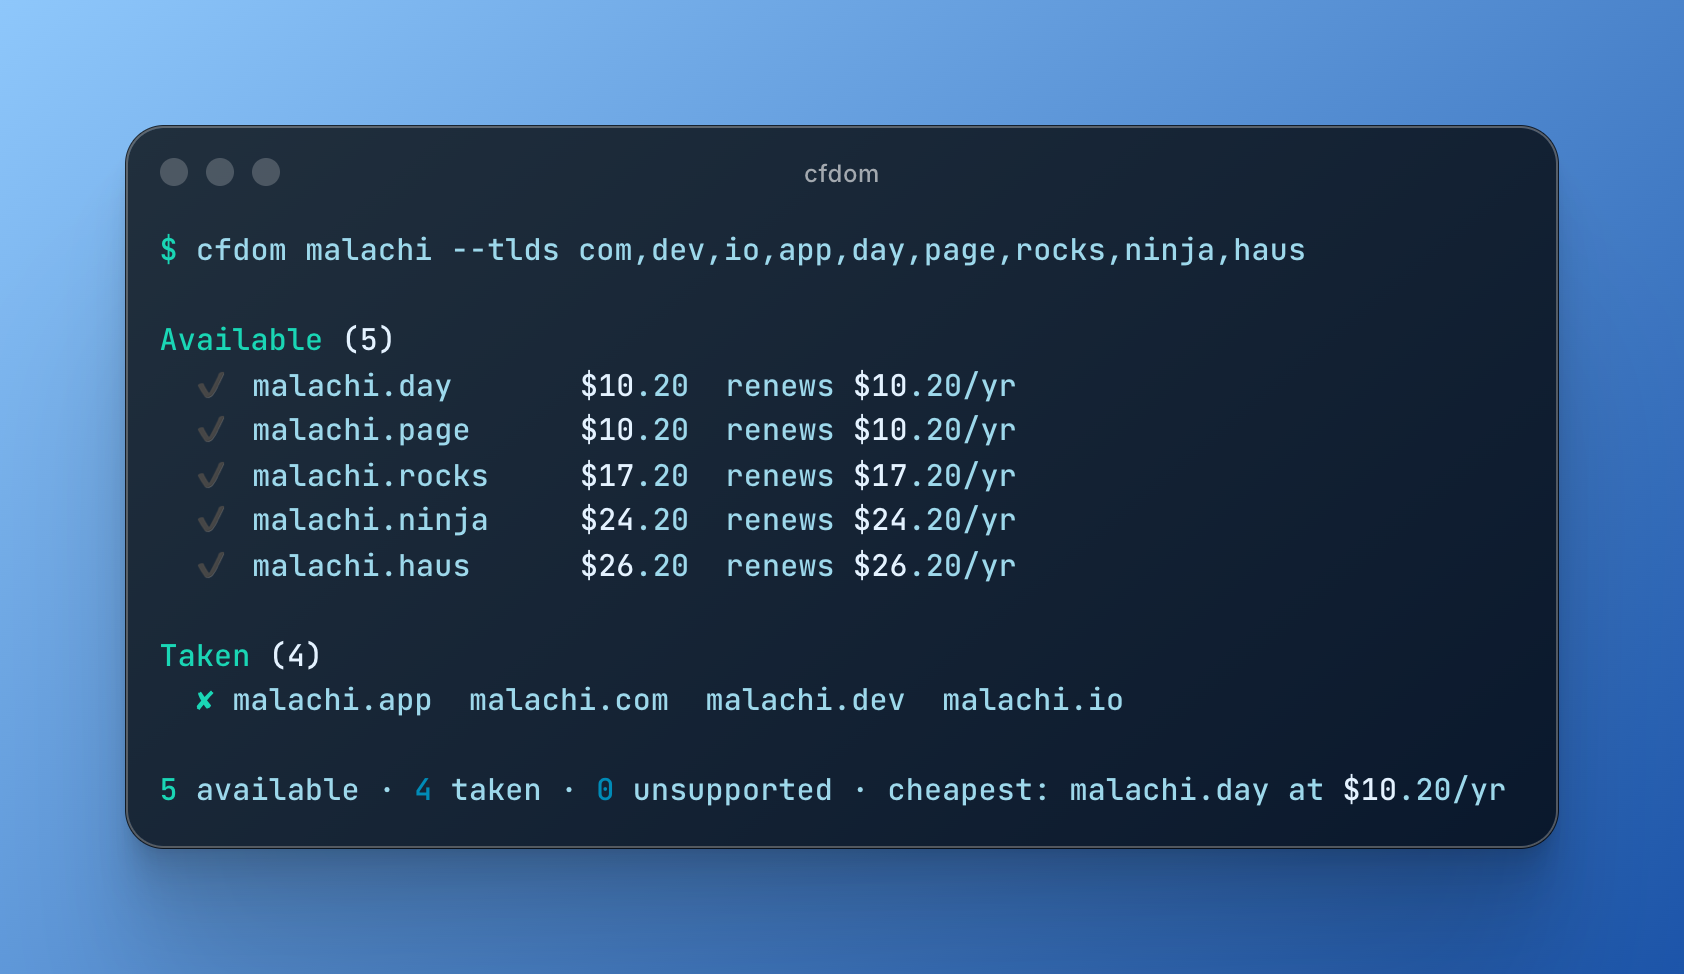
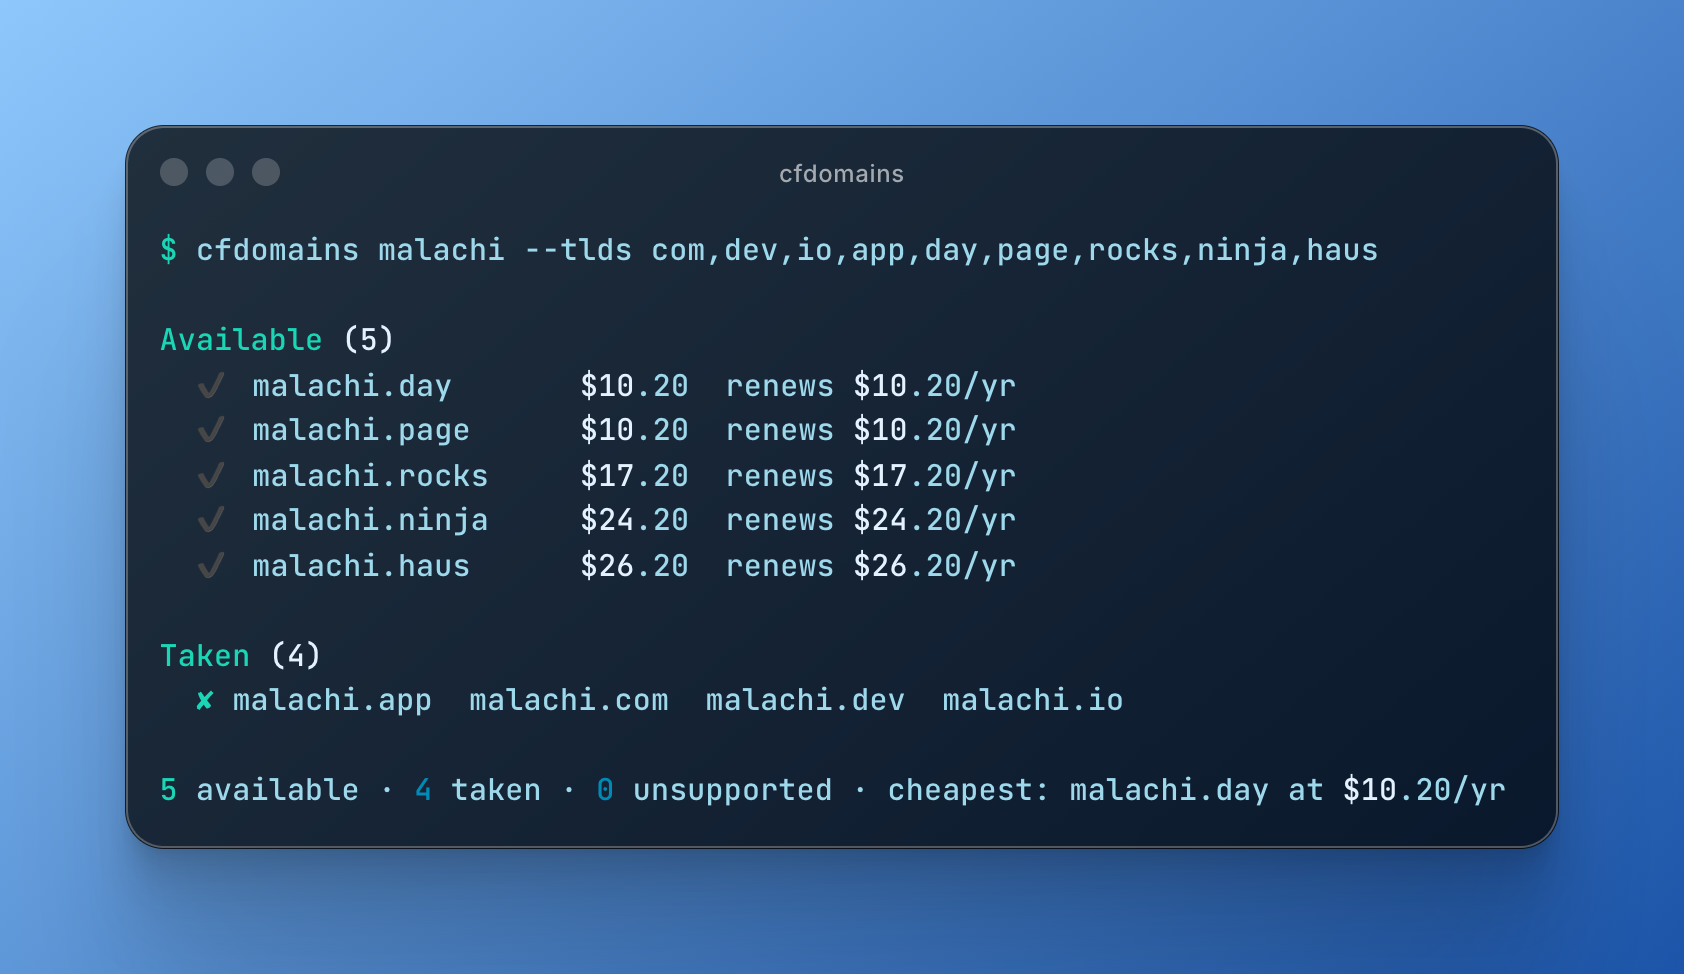
Rename CLI from cfdom to cfdomains
Clearer read ("Cloudflare domains", no DOM collision): bin name,
command name in help/examples, service ids, README, and screenshots.
The package name and cf-domain-search bin are unchanged.

Changed region(s): [[0.1544, 0.2464, 0.8337, 0.2772], [0.4632, 0.154, 0.5249, 0.1848]]

diff --git a/src/Cli.ts b/src/Cli.ts
@@ -1,5 +1,5 @@
 /**
- * The `cfdom` command: check a name's availability and price across every
+ * The `cfdomains` command: check a name's availability and price across every
  * Cloudflare Registrar TLD, plus the `setup` subcommand.
  */
 import { Array as Arr, Config, Console, Data, Effect, Option, Redacted, Result, Runtime, Schema } from "effect"
@@ -78,7 +78,7 @@ const onQuitAbort = () =>
 
 const setup = Command.make("setup", {}, () =>
   wizard.pipe(
-    Effect.flatMap(() => Console.log("\nAll set — try: cfdom yourname")),
+    Effect.flatMap(() => Console.log("\nAll set — try: cfdomains yourname")),
     Effect.catchTag("QuitError", onQuitAbort),
     withStyleFlag
   )).pipe(
@@ -89,7 +89,7 @@ const missingCredentials = new CliError.UserError({
   cause: "missing credentials",
   userMessage: "No Cloudflare credentials found.\n" +
     "Set CLOUDFLARE_API_TOKEN and CLOUDFLARE_ACCOUNT_ID (env or .env), " +
-    "or run `cfdom setup` in a terminal once."
+    "or run `cfdomains setup` in a terminal once."
 })
 
 const resolveCredentials = Effect.fn(function*(
@@ -201,7 +201,7 @@ const check = Effect.fn(function*(input: {
   }
 })
 
-export const cfdom = Command.make("cfdom", { name, ...flags }, (input) =>
+export const cfdomains = Command.make("cfdomains", { name, ...flags }, (input) =>
   check(input).pipe(Effect.catchTag("QuitError", onQuitAbort), withStyleFlag)).pipe(
     Command.withDescription(
       "Check a name's availability and price across every Cloudflare Registrar TLD"
@@ -209,10 +209,10 @@ export const cfdom = Command.make("cfdom", { name, ...flags }, (input) =>
     Command.withSubcommands([setup]),
     Command.withGlobalFlags([NoColor]),
     Command.withExamples([
-      { command: "cfdom myname", description: "Check myname.<tld> for every known TLD" },
-      { command: "cfdom myname --available", description: "Only show available domains" },
-      { command: "cfdom myname --tlds com,dev,io", description: "Restrict to specific TLDs" },
-      { command: "cfdom myname.dev", description: "Check a single exact domain" },
-      { command: "cfdom setup", description: "Interactive credential setup" }
+      { command: "cfdomains myname", description: "Check myname.<tld> for every known TLD" },
+      { command: "cfdomains myname --available", description: "Only show available domains" },
+      { command: "cfdomains myname --tlds com,dev,io", description: "Restrict to specific TLDs" },
+      { command: "cfdomains myname.dev", description: "Check a single exact domain" },
+      { command: "cfdomains setup", description: "Interactive credential setup" }
     ])
   )

diff --git a/src/Cloudflare.ts b/src/Cloudflare.ts
@@ -15,13 +15,13 @@ const API_URL = "https://api.cloudflare.com/client/v4"
 /** Cloudflare returns money as strings; be liberal and accept numbers too. */
 const Money = Schema.Union([Schema.String, Schema.Finite])
 
-export class Pricing extends Schema.Class<Pricing>("cfdom/Pricing")({
+export class Pricing extends Schema.Class<Pricing>("cfdomains/Pricing")({
   currency: Schema.optionalKey(Schema.String),
   registration_cost: Schema.optionalKey(Money),
   renewal_cost: Schema.optionalKey(Money)
 }) {}
 
-export class CheckedDomain extends Schema.Class<CheckedDomain>("cfdom/CheckedDomain")({
+export class CheckedDomain extends Schema.Class<CheckedDomain>("cfdomains/CheckedDomain")({
   name: Schema.String,
   registrable: Schema.Boolean,
   tier: Schema.optionalKey(Schema.String),
@@ -29,7 +29,7 @@ export class CheckedDomain extends Schema.Class<CheckedDomain>("cfdom/CheckedDom
   pricing: Schema.optionalKey(Pricing)
 }) {}
 
-export class Account extends Schema.Class<Account>("cfdom/Account")({
+export class Account extends Schema.Class<Account>("cfdomains/Account")({
   id: Schema.String,
   name: Schema.String
 }) {}
@@ -90,7 +90,7 @@ export class Cloudflare extends Context.Service<Cloudflare, {
     credentials: Credentials,
     domains: ReadonlyArray<string>
   ): Effect.Effect<ReadonlyArray<CheckedDomain>, CloudflareError>
-}>()("cfdom/Cloudflare") {
+}>()("cfdomains/Cloudflare") {
   static readonly layer = Layer.effect(
     Cloudflare,
     Effect.gen(function*() {

diff --git a/src/Setup.ts b/src/Setup.ts
@@ -34,7 +34,7 @@ const registrarHints = (accountId: string, { bold }: Style) => `
     · the Domain Registration Agreement hasn't been accepted — open
       https://dash.cloudflare.com/${accountId}/domains/registrations/purchase once
     · the account has no billing profile / payment method
-  Fix it in the dashboard, then re-run: ${bold("cfdom setup")}
+  Fix it in the dashboard, then re-run: ${bold("cfdomains setup")}
 `
 
 const askToken = Effect.fn(function*(cloudflare: typeof Cloudflare.Service) {
@@ -124,7 +124,7 @@ export const wizard: Effect.Effect<
   if (save) {
     yield* store.save(credentials).pipe(
       Effect.tap(() =>
-        Console.log(style.dim("  saved (file mode 600) — re-run `cfdom setup` anytime to replace"))
+        Console.log(style.dim("  saved (file mode 600) — re-run `cfdomains setup` anytime to replace"))
       ),
       Effect.catch((error) =>
         Console.error(style.red(`  could not save credentials: ${error.message}`))

diff --git a/src/Credentials.ts b/src/Credentials.ts
@@ -5,7 +5,7 @@
  *
  *   1. `CLOUDFLARE_API_TOKEN` / `CLOUDFLARE_ACCOUNT_ID` environment variables
  *   2. a `.env` file in the working directory (never overrides real env vars)
- *   3. the config saved by `cfdom setup` (`~/.config/cf-domain-search/config.json`)
+ *   3. the config saved by `cfdomains setup` (`~/.config/cf-domain-search/config.json`)
  *
  * The `--token` / `--account-id` flags (see Cli.ts) take precedence over all
  * of these, and the interactive wizard is the last resort.
@@ -46,7 +46,7 @@ export class CredentialStore extends Context.Service<CredentialStore, {
   save(credentials: Credentials): Effect.Effect<void, PlatformError>
   /** Where `save` writes. */
   readonly configPath: string
-}>()("cfdom/CredentialStore") {
+}>()("cfdomains/CredentialStore") {
   static readonly layer = Layer.effect(
     CredentialStore,
     Effect.gen(function*() {

diff --git a/scripts/screenshots.ts b/scripts/screenshots.ts
@@ -20,10 +20,10 @@ interface Shot {
 const shots: ReadonlyArray<Shot> = [
   {
     file: "docs/sweep.png",
-    title: "cfdom",
+    title: "cfdomains",
     language: "shell",
     code: [
-      "$ cfdom malachi --tlds com,dev,io,app,day,page,rocks,ninja,haus",
+      "$ cfdomains malachi --tlds com,dev,io,app,day,page,rocks,ninja,haus",
       "",
       "Available (5)",
       "  ✔ malachi.day       $10.20  renews $10.20/yr",
@@ -40,7 +40,7 @@ const shots: ReadonlyArray<Shot> = [
   },
   {
     file: "docs/json.png",
-    title: "cfdom malachi --tlds day,com --json",
+    title: "cfdomains malachi --tlds day,com --json",
     language: "json",
     code: JSON.stringify(
       [

diff --git a/src/bin.ts b/src/bin.ts
@@ -9,7 +9,7 @@ import { NodeRuntime, NodeServices } from "@effect/platform-node"
 import { Effect, Layer } from "effect"
 import { Command } from "effect/unstable/cli"
 import { FetchHttpClient } from "effect/unstable/http"
-import { cfdom } from "./Cli.ts"
+import { cfdomains } from "./Cli.ts"
 import { Cloudflare } from "./Cloudflare.ts"
 import { CredentialStore } from "./Credentials.ts"
 
@@ -18,7 +18,7 @@ const MainLayer = Layer.provideMerge(
   Layer.mergeAll(NodeServices.layer, FetchHttpClient.layer)
 )
 
-cfdom.pipe(
+cfdomains.pipe(
   Command.run({ version: "0.2.0" }),
   Effect.provide(MainLayer),
   NodeRuntime.runMain

diff --git a/src/Style.ts b/src/Style.ts
@@ -35,7 +35,7 @@ export const plain: Style = {
   bold: identity
 }
 
-export const Style = Context.Reference<Style>("cfdom/Style", {
+export const Style = Context.Reference<Style>("cfdomains/Style", {
   defaultValue: () =>
     process.stdout.isTTY === true && process.env.NO_COLOR === undefined ? colored : plain
 })

diff --git a/README.md b/README.md
@@ -5,7 +5,7 @@ cost — across all 423 [Cloudflare Registrar](https://developers.cloudflare.com
 TLDs, in one command.
 
 <p align="center">
-  <img src="docs/sweep.png" width="760" alt="cfdom output: available domains sorted cheapest first, then taken domains, then a summary line">
+  <img src="docs/sweep.png" width="760" alt="cfdomains output: available domains sorted cheapest first, then taken domains, then a summary line">
 </p>
 
 Availability is authoritative — a live registry check through Cloudflare's Registrar API,
@@ -20,7 +20,7 @@ npx cf-domain-search myname
 
 That's it. On first run with no credentials, an interactive wizard walks you through
 creating a Cloudflare API token, verifies it live, finds your account, and saves the
-result to `~/.config/cf-domain-search/config.json`. Re-run it anytime with `cfdom setup`.
+result to `~/.config/cf-domain-search/config.json`. Re-run it anytime with `cfdomains setup`.
 
 Requires Node ≥ 20 and a free Cloudflare account. Not on npm yet? Run it from a clone:
 `bun install && bun src/bin.ts myname`.
@@ -28,12 +28,12 @@ Requires Node ≥ 20 and a free Cloudflare account. Not on npm yet? Run it from 
 ## Usage
 
 ```sh
-cfdom myname                    # sweep all 423 TLDs (takes a few seconds)
-cfdom myname --available        # only show the available ones
-cfdom myname --tlds com,dev,io  # check specific TLDs
-cfdom myname.dev                # exact single-domain check
-cfdom myname --json             # machine-readable output
-cfdom myname --live-tlds        # merge the latest TLD list from cfdomainpricing.com
+cfdomains myname                    # sweep all 423 TLDs (takes a few seconds)
+cfdomains myname --available        # only show the available ones
+cfdomains myname --tlds com,dev,io  # check specific TLDs
+cfdomains myname.dev                # exact single-domain check
+cfdomains myname --json             # machine-readable output
+cfdomains myname --live-tlds        # merge the latest TLD list from cfdomainpricing.com
 ```
 
 Results come back in three groups:
@@ -50,7 +50,7 @@ Also built in: `--help`, `--version`, `--no-color` (or the `NO_COLOR` env var),
 <details>
 <summary>What <code>--json</code> looks like</summary>
 <p align="center">
-  <img src="docs/json.png" width="560" alt="cfdom --json output: an array of objects with name, registrable, tier, and pricing fields">
+  <img src="docs/json.png" width="560" alt="cfdomains --json output: an array of objects with name, registrable, tier, and pricing fields">
 </p>
 </details>
 
@@ -61,7 +61,7 @@ Credentials are looked up in this order — the wizard is only the last resort:
 1. `--token` / `--account-id` flags
 2. `CLOUDFLARE_API_TOKEN` / `CLOUDFLARE_ACCOUNT_ID` environment variables
 3. a `.env` file in the working directory
-4. the config saved by `cfdom setup`
+4. the config saved by `cfdomains setup`
 
 > [!IMPORTANT]
 > The API token needs the **Account → Registrar Domains → Edit** permission — the beta
@@ -102,7 +102,7 @@ searches.
 ```sh
 bun install        # also applies the effect-tsgo patch (prepare script)
 bun run check      # tsc 7 --noEmit with Effect diagnostics
-bun run build      # bundle src/bin.ts → dist/cfdom.js (self-contained, no deps)
+bun run build      # bundle src/bin.ts → dist/cfdomains.js (self-contained, no deps)
 ```
 
 The README screenshots are generated from real output with
@@ -111,7 +111,7 @@ The README screenshots are generated from real output with
 ### Publishing
 
 `prepack` runs the typecheck and build, shipping `dist/` with bins `cf-domain-search` and
-`cfdom`. Verify locally with `npm pack` and
+`cfdomains`. Verify locally with `npm pack` and
 `npx --yes --package=./cf-domain-search-0.2.0.tgz cf-domain-search myname`, then
 `npm publish`.
 
